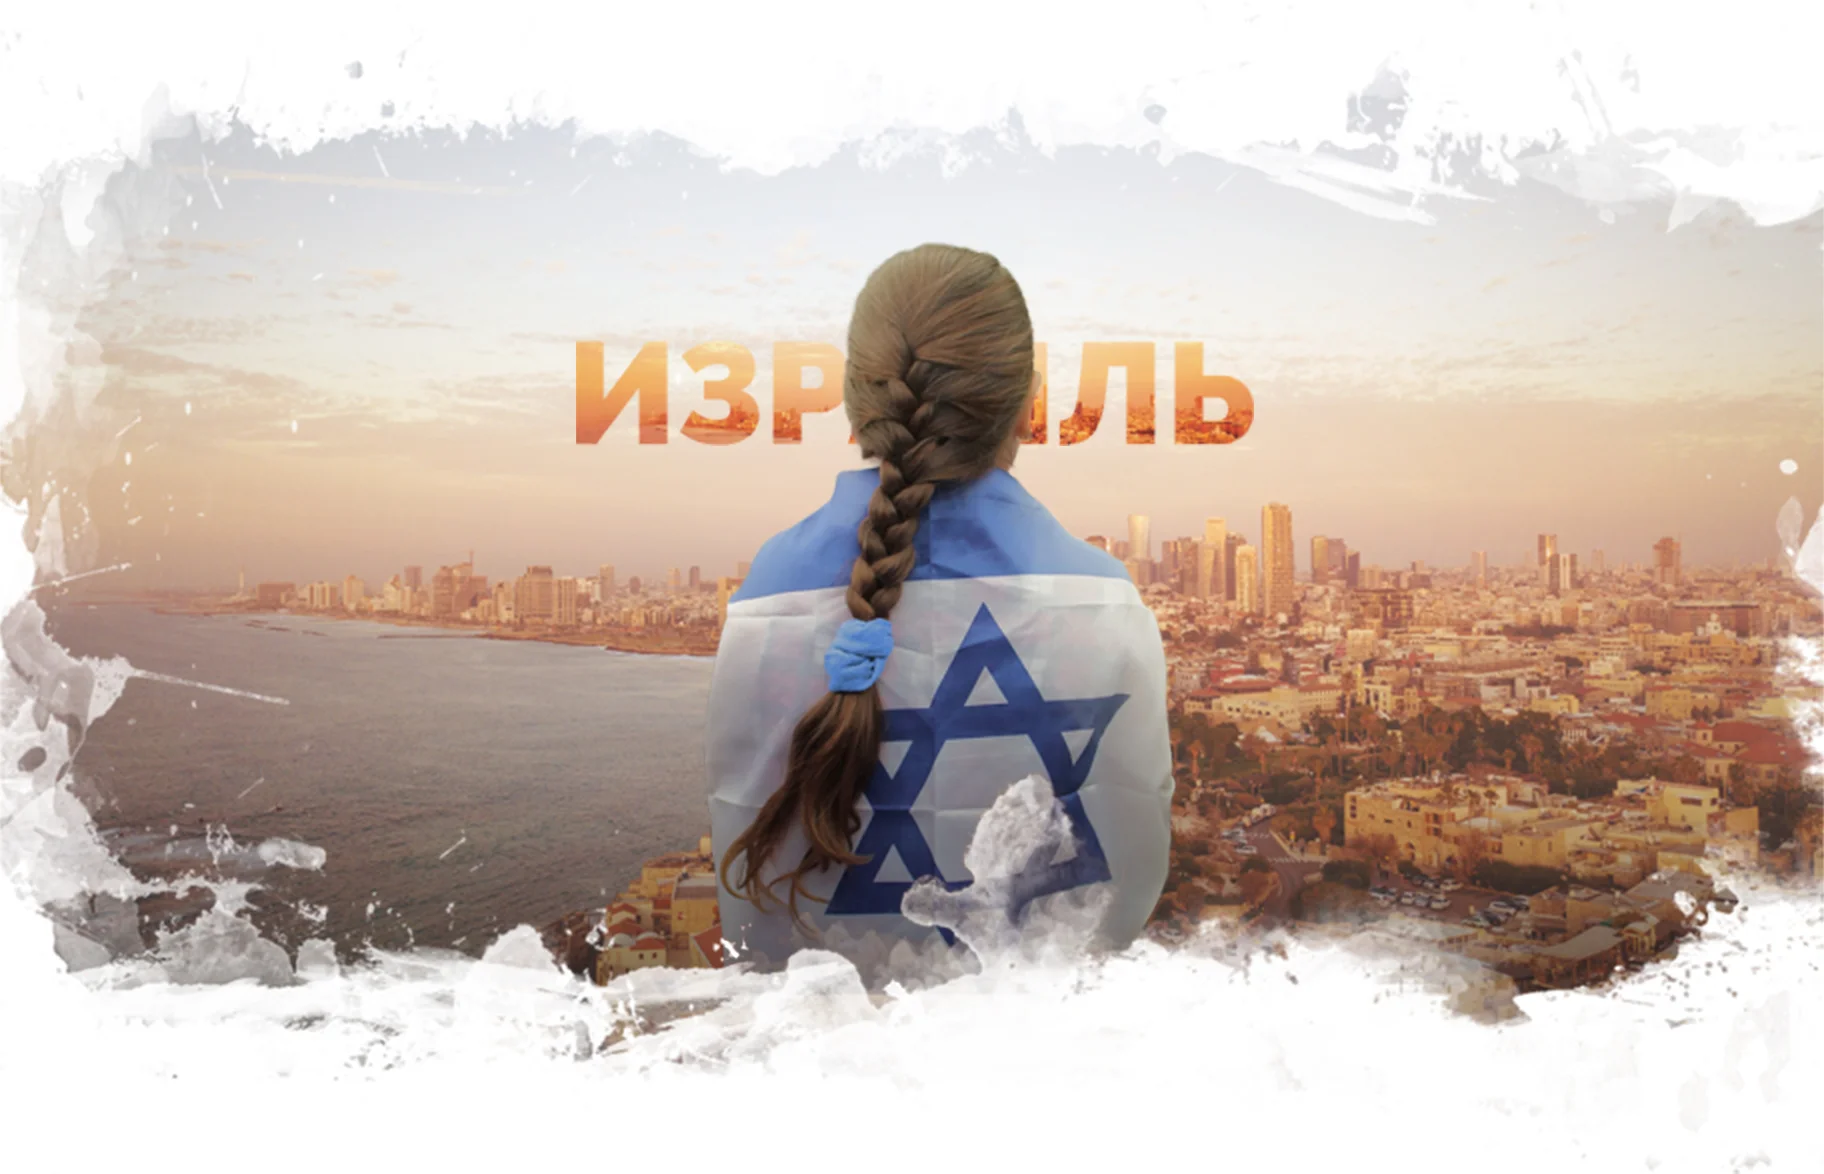
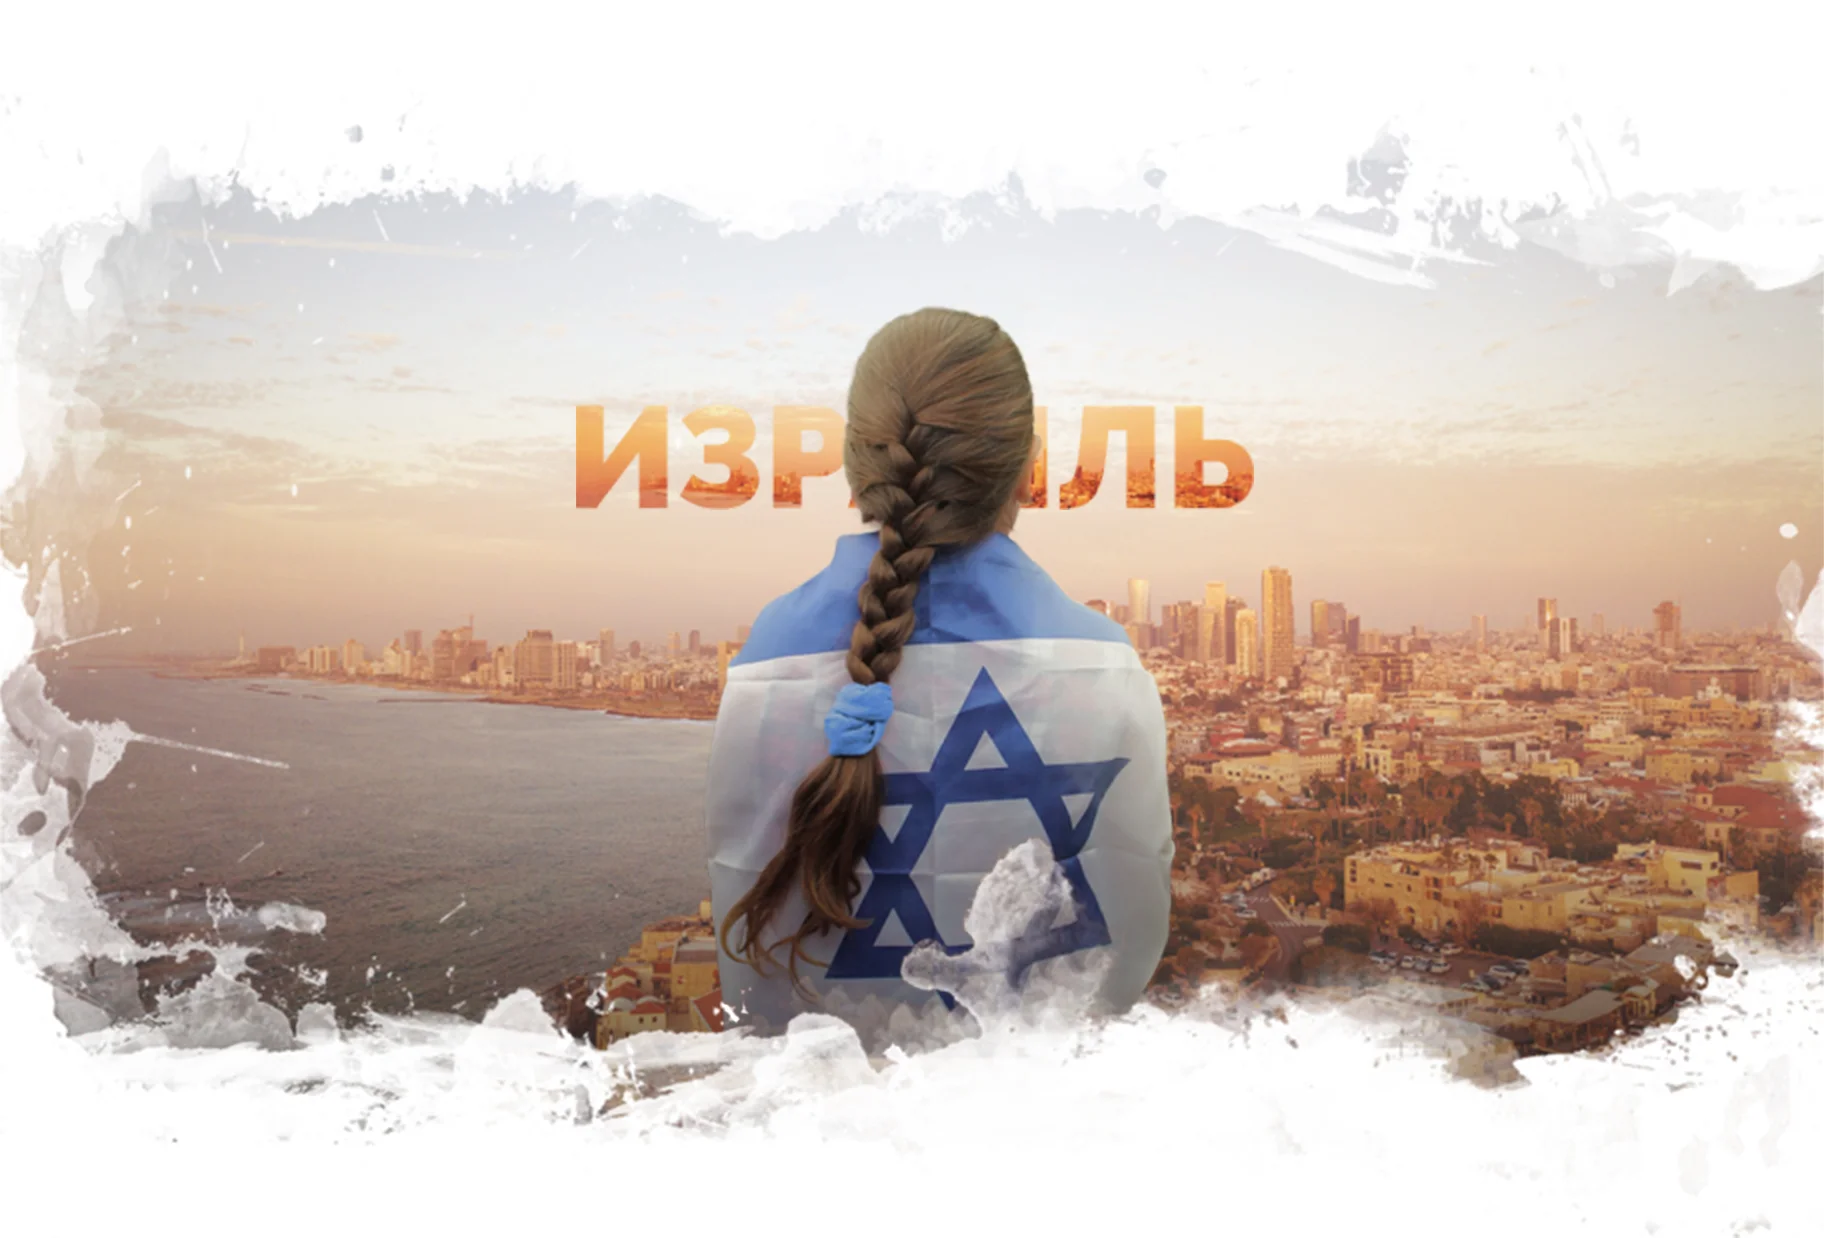
Вносит изменения в сетку шапки

diff --git a/build/css/style.min.css b/build/css/style.min.css
@@ -1,4 +1,4 @@
 @font-face{font-family:"Fira Sans";font-style:normal;font-weight:400;font-display:swap;src:url(../fonts/fira-sans-regular.woff2) format("woff2"),url(../fonts/fira-sans-regula.woff) format("woff")}@font-face{font-family:"Fira Sans";font-style:normal;font-weight:500;font-display:swap;src:url(../fonts/fira-sans-500.woff2) format("woff2"),url(../fonts/fira-sans-500.woff) format("woff")}@font-face{font-family:"Fira Sans";font-style:normal;font-weight:700;font-display:swap;src:url(../fonts/fira-sans-700.woff2) format("woff2"),url(../fonts/fira-sans-700.woff) format("woff")}@font-face{font-family:"Montserrat";font-style:normal;font-weight:700;font-display:swap;src:url(../fonts/montserrat-700.woff2) format("woff2"),url(../fonts/montserrat-700.woff) format("woff")}@font-face{font-family:"Raleway";font-style:normal;font-weight:800;font-display:swap;src:url(../fonts/raleway-800.woff2) format("woff2"),url(../fonts/raleway-800.woff) format("woff")}@font-face{font-family:"Raleway";font-style:normal;font-weight:900;font-display:swap;src:url(../fonts/raleway-900.woff2) format("woff2"),url(../fonts/raleway-900.woff) format("woff")}body{font-family:"Fira Sans","Arial",sans-serif;font-size:17px;font-weight:400;line-height:1.5;margin:0;color:#484848}html{-webkit-box-sizing:border-box;box-sizing:border-box}*,::after,::before{-webkit-box-sizing:inherit;box-sizing:inherit}button{cursor:pointer}.visually-hidden{position:absolute;width:1px;height:1px;margin:-1px;border:0;padding:0;white-space:nowrap;-webkit-clip-path:inset(100%);clip-path:inset(100%);clip:rect(0 0 0 0);overflow:hidden}.page-header{max-width:1366px;min-height:879px;margin:0 auto;background-color:#bbb955;background-position:center;background-repeat:no-repeat;background-image:url(../img/header-background--desktop@1x.jpg);background-image:-webkit-image-set(url(../img/header-background--desktop@1x.webp) 1x)}@media (-webkit-min-device-pixel-ratio:1.5),(min-resolution:144dpi),(min-resolution:1.5dppx){background-image: url("../img/header-background--desktop@2x.jpg");
-  background-image: -webkit-image-set(url("../img/header-background--desktop@2x.webp") 2x);}.page-header a{color:#484848;text-decoration:none}.page-header__holder{background-color:transparent;max-width:1366px;width:88%;min-height:115px;display:-webkit-box;display:-ms-flexbox;display:flex;-ms-flex-wrap:wrap;flex-wrap:wrap;-webkit-box-pack:justify;-ms-flex-pack:justify;justify-content:space-between;-webkit-box-align:center;-ms-flex-align:center;align-items:center;margin:0 auto;font-family:"Fira Sans","Arial",sans-serif;font-size:15px;font-weight:500;line-height:18px}.page-header__phone-number{margin-left:1.9%;padding:4px 5px 5px;color:#484848}.page-header__logo{-webkit-transform:translateX(-11px);transform:translateX(-11px);padding:5px}.page-header__call{position:relative;padding:5px;margin-right:2.4%;font-size:13px;text-transform:uppercase;letter-spacing:.3px;color:#484848}.page-header__call::after{content:"";display:block;position:absolute;width:100%;height:2px;left:-6px;bottom:4px;-webkit-transform:rotate(180deg);transform:rotate(180deg);background-image:url(../img/icon-border--black.svg);background-repeat:no-repeat}.page-header__box{width:70%;max-width:400px;margin:400px auto 0}.page-header__text{margin:0;padding:24px;font-size:24px;font-weight:700;line-height:29px;color:#fff;text-align:center;text-shadow:0 1px 4px rgba(0,0,0,.12)}.page-header__scroll{display:block;width:80px;height:132px;margin:0 auto;background-image:url(../img/mouse-background@1x.png);background-position-x:2px;background-position-y:5px;background-repeat:no-repeat}.page-header__scroll>button{width:17px;height:26px;margin:32px;background-color:transparent;background-image:url(../img/icon-mouse.svg);background-repeat:no-repeat;border:0;outline:0;cursor:pointer}.page-header__call:active,.page-header__phone-number:active{background:linear-gradient(132.19deg,#ffc341 20.46%,#ffd701 65.31%);-webkit-background-clip:text;-webkit-text-fill-color:transparent;opacity:.5}.page-header__call:active::after{background-image:url(../img/icon-border--yellow.svg);opacity:.5}.page-header__scroll>button:active{background-image:url(../img/mouse--yellow.png);opacity:.87}@media (max-width:767px){.page-header{min-height:600px;background-image:url(../img/header-background--mobile@1x.jpg);background-image:-webkit-image-set(url(../img/header-background--mobile@1x.webp) 1x);background-position-y:32px}}@media (max-width:767px) and (-webkit-min-device-pixel-ratio:1.5),(max-width:767px) and (min-resolution:144dpi),(max-width:767px) and (min-resolution:1.5dppx){background-image: url("../img/header-background--mobile@2x.jpg");
-  background-image: -webkit-image-set(url("../img/header-background--mobile@2x.webp") 2x);}@media (max-width:767px){.page-header__holder{width:97%;max-width:580px;min-height:315px;-webkit-box-orient:vertical;-webkit-box-direction:normal;-ms-flex-direction:column;flex-direction:column;-webkit-box-pack:initial;-ms-flex-pack:initial;justify-content:initial;-webkit-box-align:end;-ms-flex-align:end;align-items:flex-end;padding-top:15px;font-size:14px;line-height:17px}.page-header__logo{-webkit-box-ordinal-group:0;-ms-flex-order:-1;order:-1;-webkit-transform:translateX(6px);transform:translateX(6px);margin-right:auto}.page-header__phone-number{margin-left:initial;margin-top:-55px;padding-right:3px}.page-header__call{margin-right:initial;font-size:12px;letter-spacing:.4px}.page-header__call::after{width:88%;left:6px;bottom:5px}.page-header__box{width:95%;margin-top:10px}.page-header__text{margin-bottom:15px;padding:10px 9px;font-size:20px;line-height:24px}.page-header__call:focus,.page-header__call:hover,.page-header__phone-number:focus,.page-header__phone-number:hover{outline:0}}@media (min-width:768px){.page-header__call:focus,.page-header__call:hover,.page-header__phone-number:focus,.page-header__phone-number:hover{background:linear-gradient(132.19deg,#ffc341 20.46%,#ffd701 65.31%);-webkit-background-clip:text;-webkit-text-fill-color:transparent;opacity:.87}.page-header__call:focus::after,.page-header__call:hover::after{background-image:url(../img/icon-border--yellow.svg);opacity:.87}.page-header__scroll>button:focus,.page-header__scroll>button:hover{background-image:url(../img/mouse--yellow.png)}}.modal-form,.overlay{position:fixed;width:100%}.overlay{display:none;height:100%;background-color:rgba(235,235,235,.95);z-index:50;top:0;left:0}.modal-form{z-index:60;display:-webkit-box;display:-ms-flexbox;display:flex;-webkit-box-orient:vertical;-webkit-box-direction:normal;-ms-flex-direction:column;flex-direction:column;max-width:480px;min-height:521px;top:7.3em;left:50%;-webkit-transform:translateX(-50%);transform:translateX(-50%);margin:0 auto;padding:40px;background-color:#fff;-webkit-box-shadow:12px 20px 24px -24px #484848;box-shadow:12px 20px 24px -24px #484848;border-radius:8px;text-align:left}.modal-form__title{width:96%;margin:15px auto;font-family:"Montserrat","Arial",sans-serif;font-size:28px;font-weight:700;line-height:34px;letter-spacing:-.02em;color:#1fc0fc}.modal-form__text{width:96%;margin:2px auto 21px;padding-right:25px;font-size:15px;line-height:1.7}.modal-form__button-close{position:absolute;width:22px;height:22px;right:6.7%;top:20px;border:0;outline:0;background-color:transparent}.modal-form__button-close::after,.modal-form__button-close::before{content:"";position:absolute;width:22px;height:4px;background:linear-gradient(109.42deg,#ffc341 20.46%,#ffd701 65.31%);-webkit-transform-origin:50% 50%;transform-origin:50% 50%}.modal-form__button-close::before{-webkit-transform:translateX(-50%) rotate3d(0,0,1,45deg);transform:translateX(-50%) rotate3d(0,0,1,45deg)}.modal-form__button-close::after{-webkit-transform:translateX(-50%) rotate3d(0,0,1,-45deg);transform:translateX(-50%) rotate3d(0,0,1,-45deg)}
+  background-image: -webkit-image-set(url("../img/header-background--desktop@2x.webp") 2x);}.page-header a{color:#484848;text-decoration:none}.page-header__holder{background-color:transparent;max-width:1366px;width:88%;min-height:115px;display:-webkit-box;display:-ms-flexbox;display:flex;-webkit-box-flex:1;-ms-flex:1 1;flex:1 1;-ms-flex-wrap:no-wrap;flex-wrap:no-wrap;-webkit-box-align:center;-ms-flex-align:center;align-items:center;margin:0 auto;font-family:"Fira Sans","Arial",sans-serif;font-size:15px;font-weight:500;line-height:18px}.page-header__nav-contact,.page-header__nav-link{width:43%;display:-webkit-box;display:-ms-flexbox;display:flex;-ms-flex-wrap:wrap;flex-wrap:wrap;-webkit-box-pack:justify;-ms-flex-pack:justify;justify-content:space-between}.page-header__phone-number{margin-left:4.5%;padding:5px;color:#484848}.page-header__logo{-webkit-transform:translateX(8px);transform:translateX(8px);padding:5px}.page-header__call{position:relative;margin-right:1.4%;margin-left:auto;padding:5px;font-size:13px;text-transform:uppercase;letter-spacing:.3px;color:#484848}.page-header__call::after{content:"";display:block;position:absolute;width:100%;height:2px;left:-6px;bottom:4px;-webkit-transform:rotate(180deg);transform:rotate(180deg);background-image:url(../img/icon-border--black.svg);background-repeat:no-repeat}.page-header__box{width:70%;max-width:400px;margin:400px auto 0}.page-header__text{margin:0;padding:24px;font-size:24px;font-weight:700;line-height:29px;color:#fff;text-align:center;text-shadow:0 1px 4px rgba(0,0,0,.12)}.page-header__scroll{display:block;width:80px;height:132px;margin:0 auto;background-image:url(../img/mouse-background@1x.png);background-position-x:2px;background-position-y:5px;background-repeat:no-repeat}.page-header__scroll>button{width:17px;height:26px;margin:32px;background-color:transparent;background-image:url(../img/icon-mouse.svg);background-repeat:no-repeat;border:0;outline:0;cursor:pointer}.page-header__call:active,.page-header__phone-number:active{background:linear-gradient(132.19deg,#ffc341 20.46%,#ffd701 65.31%);-webkit-background-clip:text;-webkit-text-fill-color:transparent;opacity:.5}.page-header__call:active::after{background-image:url(../img/icon-border--yellow.svg);opacity:.5}.page-header__scroll>button:active{background-image:url(../img/mouse--yellow.png);opacity:.87}@media (max-width:767px){.page-header{min-height:600px;background-position-y:0;background-image:url(../img/header-background--mobile@1x.jpg);background-image:-webkit-image-set(url(../img/header-background--mobile@1x.webp) 1x)}}@media (max-width:767px) and (-webkit-min-device-pixel-ratio:1.5),(max-width:767px) and (min-resolution:144dpi),(max-width:767px) and (min-resolution:1.5dppx){background-image: url("../img/header-background--mobile@2x.jpg");
+  background-image: -webkit-image-set(url("../img/header-background--mobile@2x.webp") 2x);}@media (max-width:767px){.page-header__holder,.page-header__nav-contact,.page-header__nav-link{-webkit-box-orient:vertical;-webkit-box-direction:normal;-ms-flex-direction:column;flex-direction:column;-webkit-box-align:end;-ms-flex-align:end;align-items:flex-end}.page-header__holder{max-width:580px;min-height:315px;-webkit-box-pack:initial;-ms-flex-pack:initial;justify-content:initial;-ms-flex-wrap:wrap;flex-wrap:wrap;padding-top:15px;font-size:14px;line-height:17px;width:97%}.page-header__nav-contact,.page-header__nav-link{width:46%}.page-header__nav-contact{margin-top:-56px}.page-header__logo{-webkit-box-ordinal-group:0;-ms-flex-order:-1;order:-1;-webkit-transform:translateX(6px);transform:translateX(6px);margin-right:auto}.page-header__phone-number{padding-right:3px;margin-left:initial}.page-header__call{margin-right:initial;font-size:12px;letter-spacing:.4px}.page-header__call::after{width:88%;left:6px;bottom:5px}.page-header__box{width:95%;margin-top:10px}.page-header__text{margin-bottom:15px;padding:10px 9px;font-size:20px;line-height:24px}.page-header__call:focus,.page-header__call:hover,.page-header__phone-number:focus,.page-header__phone-number:hover{outline:0}}@media (min-width:768px){.page-header__call:focus,.page-header__call:hover,.page-header__phone-number:focus,.page-header__phone-number:hover{background:linear-gradient(132.19deg,#ffc341 20.46%,#ffd701 65.31%);-webkit-background-clip:text;-webkit-text-fill-color:transparent;opacity:.87}.page-header__call:focus::after,.page-header__call:hover::after{background-image:url(../img/icon-border--yellow.svg);opacity:.87}.page-header__scroll>button:focus,.page-header__scroll>button:hover{background-image:url(../img/mouse--yellow.png)}}.modal-form,.overlay{position:fixed;width:100%}.overlay{display:none;height:100%;background-color:rgba(235,235,235,.95);z-index:50;top:0;left:0}.modal-form{z-index:60;display:-webkit-box;display:-ms-flexbox;display:flex;-webkit-box-orient:vertical;-webkit-box-direction:normal;-ms-flex-direction:column;flex-direction:column;max-width:480px;min-height:521px;top:7.3em;left:50%;-webkit-transform:translateX(-50%);transform:translateX(-50%);margin:0 auto;padding:40px;background-color:#fff;-webkit-box-shadow:12px 20px 24px -24px #484848;box-shadow:12px 20px 24px -24px #484848;border-radius:8px;text-align:left}.modal-form__title{width:96%;margin:15px auto;font-family:"Montserrat","Arial",sans-serif;font-size:28px;font-weight:700;line-height:34px;letter-spacing:-.02em;color:#1fc0fc}.modal-form__text{width:96%;margin:2px auto 21px;padding-right:25px;font-size:15px;line-height:1.7}.modal-form__button-close{position:absolute;width:22px;height:22px;right:6.7%;top:20px;border:0;outline:0;background-color:transparent}.modal-form__button-close::after,.modal-form__button-close::before{content:"";position:absolute;width:22px;height:4px;background:linear-gradient(109.42deg,#ffc341 20.46%,#ffd701 65.31%);-webkit-transform-origin:50% 50%;transform-origin:50% 50%}.modal-form__button-close::before{-webkit-transform:translateX(-50%) rotate3d(0,0,1,45deg);transform:translateX(-50%) rotate3d(0,0,1,45deg)}.modal-form__button-close::after{-webkit-transform:translateX(-50%) rotate3d(0,0,1,-45deg);transform:translateX(-50%) rotate3d(0,0,1,-45deg)}
 /*# sourceMappingURL=style.min.css.map */

diff --git a/source/sass/page-header.scss b/source/sass/page-header.scss
@@ -26,8 +26,8 @@
   width: 88%;
   min-height: 115px;
   display: flex;
-  flex-wrap: wrap;
-  justify-content: space-between;
+  flex: 1 1;
+  flex-wrap: no-wrap;
   align-items: center;
   margin: 0 auto;
   font-family: "Fira Sans", "Arial", sans-serif;
@@ -36,22 +36,30 @@
   line-height: 18px;
 }
 
+.page-header__nav-contact,
+.page-header__nav-link {
+  width: 43%;
+  display: flex;
+  flex-wrap: wrap;
+  justify-content: space-between;
+}
+
 .page-header__phone-number {
-  margin-left: 1.9%;
+  margin-left: 4.5%;
   padding: 5px;
-  padding-top: 4px;
   color: $black-color;
 }
 
 .page-header__logo {
-  transform: translateX(-11px);
+  transform: translateX(8px);
   padding: 5px;
 }
 
 .page-header__call {
   position: relative;
+  margin-right: 1.4%;
+  margin-left: auto;
   padding: 5px;
-  margin-right: 2.4%;
   font-size: 13px;
   text-transform: uppercase;
   letter-spacing: 0.3px;
@@ -130,10 +138,10 @@
 @media (max-width: $mobile-width) {
   .page-header {
     min-height: 600px;
+    background-position-y: 0;
     background-image: url("../img/header-background--mobile@1x.jpg");
     /* stylelint-disable */
     background-image: -webkit-image-set(url("../img/header-background--mobile@1x.webp") 1x);
-    background-position-y: 32px;
   }
 
   @media (min-resolution: $retina-dpi), (min-resolution: $retina-dppx) {
@@ -147,10 +155,22 @@
     min-height: 315px;
     flex-direction: column;
     justify-content: initial;
+    flex-wrap: wrap;
     align-items: flex-end;
     padding-top: 15px;
     font-size: 14px;
     line-height: 17px;
+  }
+
+  .page-header__nav-contact,
+  .page-header__nav-link {
+    width: 46%;
+    flex-direction: column;
+    align-items: flex-end;
+  }
+
+  .page-header__nav-contact {
+    margin-top: -56px;
   }
 
   .page-header__logo {
@@ -160,9 +180,8 @@
   }
 
   .page-header__phone-number {
-    margin-left: initial;
-    margin-top: -55px;
     padding-right: 3px;
+    margin-left: initial;
   }
 
   .page-header__call {

diff --git a/build/index.html b/build/index.html
@@ -18,7 +18,9 @@
 <body>
   <header class="page-header">
     <div class="page-header__holder">
-      <a class="page-header__phone-number" href="tel:+97226216581">+ (972) 2 – 621 – 6581</a>
+      <div class="page-header__nav-contact">
+        <a class="page-header__phone-number" href="tel:+97226216581">+ (972) 2 – 621 – 6581</a>
+      </div>
       <a class="page-header__logo">
         <picture>
           <source type="image/webp" media="(max-width: 767px)" srcset="./img/logo-header--mobile@1x.webp 1x, ./img/logo-header--mobile@2x.webp 2x">
@@ -30,7 +32,10 @@
           <img src="./img/logo-header--desktop@1x.png" srcset="./img/logo-header--desktop@2x.png 2x" alt="Логотип Masa">
         </picture>
       </a>
-      <a class="page-header__call" href="#" id="link-call">заказать звонок</a>
+      <div class="page-header__nav-link">
+        <a class="page-header__call" href="#" id="link-call">заказать звонок</a>
+
+      </div>
     </div>
     <div class="page-header__box">
       <p class="page-header__text">Учёба, путешествие и карьера для еврейской молодёжи</p>

diff --git a/source/index.html b/source/index.html
@@ -18,7 +18,9 @@
 <body>
   <header class="page-header">
     <div class="page-header__holder">
-      <a class="page-header__phone-number" href="tel:+97226216581">+ (972) 2 – 621 – 6581</a>
+      <div class="page-header__nav-contact">
+        <a class="page-header__phone-number" href="tel:+97226216581">+ (972) 2 – 621 – 6581</a>
+      </div>
       <a class="page-header__logo">
         <picture>
           <source type="image/webp" media="(max-width: 767px)"
@@ -33,7 +35,10 @@
           <img src="./img/logo-header--desktop@1x.png" srcset="./img/logo-header--desktop@2x.png 2x" alt="Логотип Masa">
         </picture>
       </a>
-      <a class="page-header__call" href="#" id="link-call">заказать звонок</a>
+      <div class="page-header__nav-link">
+        <a class="page-header__call" href="#" id="link-call">заказать звонок</a>
+
+      </div>
     </div>
     <div class="page-header__box">
       <p class="page-header__text">Учёба, путешествие и карьера для еврейской молодёжи</p>
